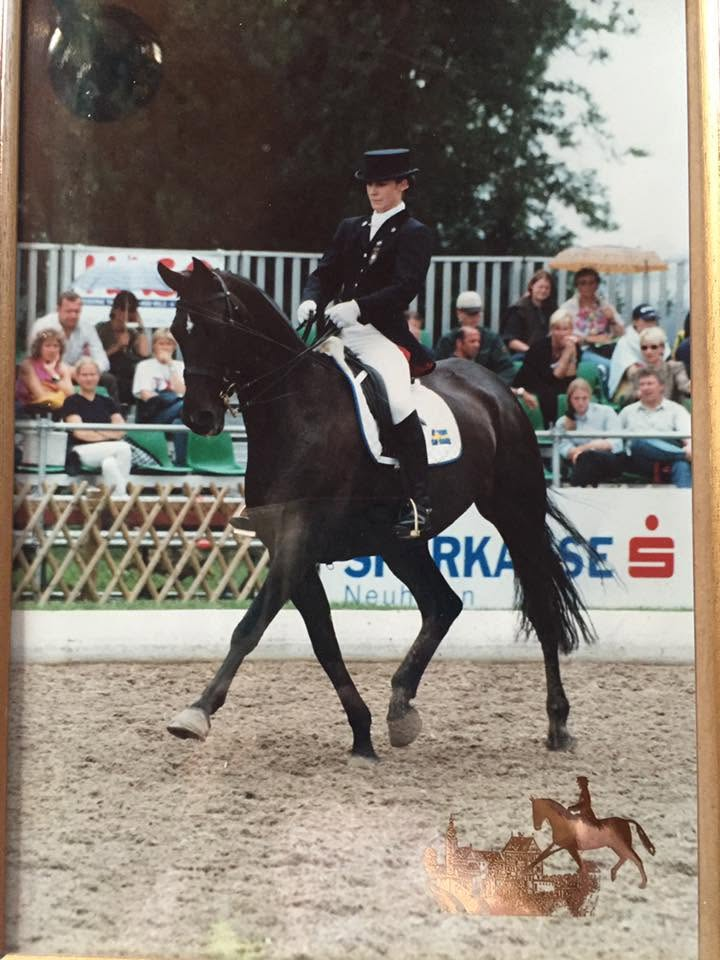
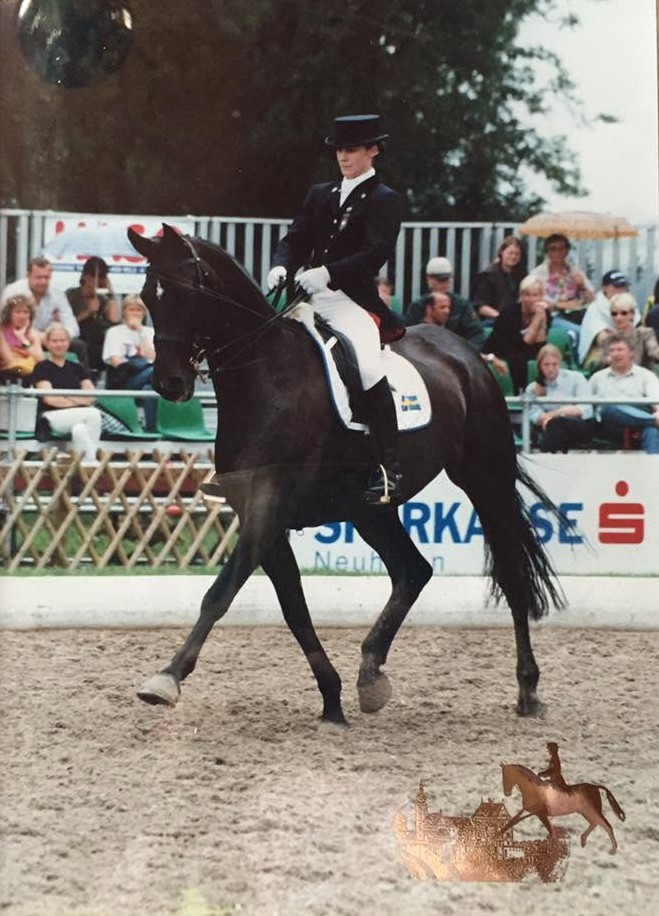
Om Lena: beskuren Eleonor-bild (ram bort) + namn pa egen rad, mindre metatext

diff --git a/om.html b/om.html
@@ -8,7 +8,7 @@
 <link rel="preconnect" href="https://fonts.googleapis.com">
 <link rel="preconnect" href="https://fonts.gstatic.com" crossorigin>
 <link href="https://fonts.googleapis.com/css2?family=Playfair+Display:wght@500;600;700&family=Inter:wght@400;500;600&display=swap" rel="stylesheet">
-<link rel="stylesheet" href="css/styles.css?v=12">
+<link rel="stylesheet" href="css/styles.css?v=13">
 <link rel="icon" type="image/jpeg" href="assets/logga.jpg">
 </head>
 <body>
@@ -95,15 +95,15 @@
     <div class="famgrid">
       <figure>
         <img src="assets/eleonor.jpg" alt="Eleonor Lilja på Junior-EM 1999 med hästen Alabama">
-        <figcaption>Eleonor &amp; Alabama · Junior-EM 1999, Österrike</figcaption>
+        <figcaption><span class="fam-name">Eleonor &amp; Alabama</span><span class="fam-meta">Junior-EM 1999, Österrike</span></figcaption>
       </figure>
       <figure>
         <img src="assets/viktoria.jpg" alt="Viktoria Lilja rider dressyr på Chablisienne">
-        <figcaption>Viktoria &amp; Chablisienne</figcaption>
+        <figcaption><span class="fam-name">Viktoria &amp; Chablisienne</span><span class="fam-meta">Dressyr</span></figcaption>
       </figure>
       <figure>
         <img src="assets/galleri-sunbyholm.jpg" alt="Ella och ponnyn Wicked Love på dressyrtävling i Sunbyholm">
-        <figcaption>Ella &amp; Wicked Love · dressyr på FEI-nivå</figcaption>
+        <figcaption><span class="fam-name">Ella &amp; Wicked Love</span><span class="fam-meta">Dressyr på FEI-nivå</span></figcaption>
       </figure>
     </div>
     <div style="display:flex;flex-wrap:wrap;gap:24px;align-items:center;margin-top:36px;background:#fff;border-radius:var(--radius);box-shadow:var(--shadow-sm);padding:20px">

diff --git a/css/styles.css b/css/styles.css
@@ -357,3 +357,8 @@ p{margin:0 0 1rem}
 .gal__t{width:54px;height:44px;border:2px solid transparent;border-radius:8px;background-size:cover;background-position:center;cursor:pointer;padding:0;flex:0 0 auto}
 .gal__t.is-active{border-color:var(--leather)}
 .gal__t:hover{border-color:var(--leather-dk)}
+
+/* Familjebildtexter: namn på egen rad + mindre metatext */
+.famgrid figcaption{font-size:.86rem}
+.famgrid figcaption .fam-name{display:block;font-weight:600;color:var(--ink);font-size:.95rem}
+.famgrid figcaption .fam-meta{display:block;font-size:.8rem;color:var(--muted);margin-top:2px}
